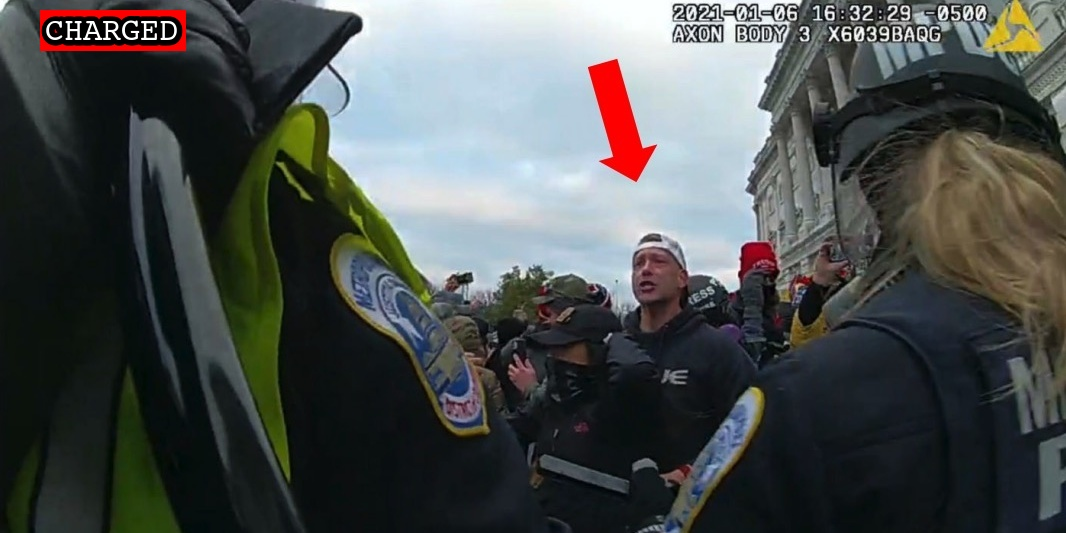
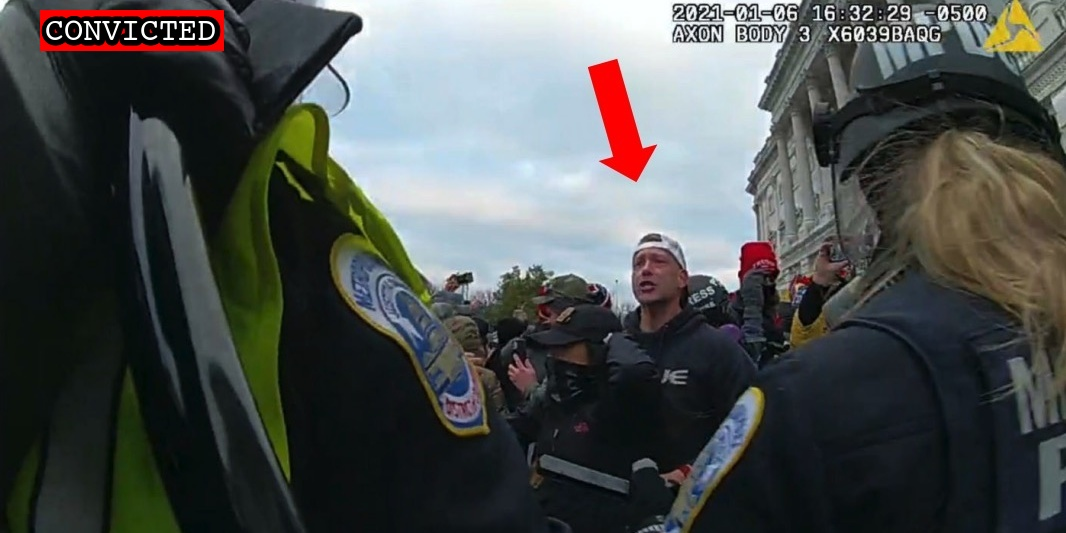
Latest

Changed region(s): [[0.0619, 0.0, 0.2167, 0.1201]]

diff --git a/docs/_suspects/enrique-tarrio.md b/docs/_suspects/enrique-tarrio.md
@@ -17,7 +17,7 @@ plea_hearing:
 trial_date: 2022-12-19
 trial_type: Jury Trial
 jury_selection: 2022-12-19
-sentencing:
+sentencing: 2023-09-01
 status_conference:
 age:
 occupation:
@@ -41,33 +41,32 @@ caseName: USA v. TARRIO
 judge: Timothy J. Kelly
 videos:
 charges:
-  - code: 18 USC § 2384
-    title: Seditious Conspiracy
-    url: https://www.law.cornell.edu/uscode/text/18/2384
-    felony: true
-  - code: 18 USC § 1512(k)
-    title: Conspiracy to Obstruct an Official Proceeding
-    url: https://www.law.cornell.edu/uscode/text/18/1512
-    felony: true
-  - code: 18 USC § 1512(c)(2),2
-    title: Obstruction of an Official Proceeding (Aiding and Abetting)
-    url: https://www.law.cornell.edu/uscode/text/18/1512
-    felony: true
-  - code: 18 USC § 372
-    title: Conspiracy to Prevent an Officer from Discharging any Duties
-    url: https://www.law.cornell.edu/uscode/text/18/372
-    felony: true
-  - code: 18 USC § 231(a)(3)
-    title: Obstruction of Law Enforcement During Civil Disorder
-    url: https://www.law.cornell.edu/uscode/text/18/231
-    felony: true
-  - code: 18 USC § 1361, 2
-    title: Destruction of Government Property (Aiding and Abetting)
-    url: https://www.law.cornell.edu/uscode/text/18/1361
-    felony: true
+- code: 18 USC § 2384
+  title: Seditious Conspiracy
+  url: https://www.law.cornell.edu/uscode/text/18/2384
+  felony: true
+- code: 18 USC § 1512(k)
+  title: Conspiracy to Obstruct an Official Proceeding
+  url: https://www.law.cornell.edu/uscode/text/18/1512
+  felony: true
+- code: 18 USC § 1512(c)(2),2
+  title: Obstruction of an Official Proceeding (Aiding and Abetting)
+  url: https://www.law.cornell.edu/uscode/text/18/1512
+  felony: true
+- code: 18 USC § 372
+  title: Conspiracy to Prevent an Officer from Discharging any Duties
+  url: https://www.law.cornell.edu/uscode/text/18/372
+  felony: true
+- code: 18 USC § 231(a)(3)
+  title: Obstruction of Law Enforcement During Civil Disorder
+  url: https://www.law.cornell.edu/uscode/text/18/231
+  felony: true
+- code: 18 USC § 1361, 2
+  title: Destruction of Government Property (Aiding and Abetting)
+  url: https://www.law.cornell.edu/uscode/text/18/1361
+  felony: true
 sentence:
 ---
-
 - [News Report](https://www.theguardian.com/us-news/2022/mar/08/enrique-tarrio-proud-boys-leader-arrested-us-capitol-attack-conspiracy)
 - [Indictment](https://storage.courtlistener.com/recap/gov.uscourts.dcd.241009/gov.uscourts.dcd.241009.380.0_5.pdf)
 - [Detention Memo](https://s3.documentcloud.org/documents/21417131/3-14-22-us-detention-memo-enrique-tarrio.pdf)

diff --git a/docs/_suspects/joshua-black.md b/docs/_suspects/joshua-black.md
@@ -4,13 +4,13 @@ lastName: Black
 hashtag: JoshuaBlack
 aka:
 residence: Alabama
-status: Convicted
+status: Sentenced
 date: 2021-01-14
 charged: 2021-01-14
 indicted: 2021-02-17
 convicted: 2023-01-13
 acquitted:
-sentenced:
+sentenced: 2023-05-16
 dismissed:
 deceased:
 plea_hearing:
@@ -41,28 +41,32 @@ caseName: USA v. BLACK
 judge: Amy B. Jackson
 videos:
 charges:
-- code: 18 USC § 1752(a)(1) and b(1)(A)
-  title: Entering a restricted building or grounds (w/a deadly weapon)
-  url: https://www.law.cornell.edu/uscode/text/18/1752
-  felony: true
-- code: 18 USC § 1752(a)(2) and b(1)(A)
-  title: Disorderly and Disruptive Conduct in a Restricted Building or Grounds (w/a deadly weapon)
-  url: https://www.law.cornell.edu/uscode/text/18/1752
-  felony: true
-- code: 40 USC § 5104(e)(1)(A)
-  title: Unlawful Posession of a Dangerous Weapon on Capitol Grounds or Buildings
-  url: https://www.law.cornell.edu/uscode/text/40/5104
-  felony: false
-- code: 40 USC § 5104(e)(2)(A)
-  title: Entering and Remaining on the Floor of Congress
-  url: https://www.law.cornell.edu/uscode/text/40/5104
-  felony: false
-- code: 40 USC § 5104(e)(2)(D)
-  title: Disorderly Conduct in a Capitol Building
-  url: https://www.law.cornell.edu/uscode/text/40/5104
-  felony: false
+  - code: 18 USC § 1752(a)(1) and b(1)(A)
+    title: Entering a restricted building or grounds (w/a deadly weapon)
+    url: https://www.law.cornell.edu/uscode/text/18/1752
+    felony: true
+  - code: 18 USC § 1752(a)(2) and b(1)(A)
+    title: Disorderly and Disruptive Conduct in a Restricted Building or Grounds (w/a deadly weapon)
+    url: https://www.law.cornell.edu/uscode/text/18/1752
+    felony: true
+  - code: 40 USC § 5104(e)(1)(A)
+    title: Unlawful Posession of a Dangerous Weapon on Capitol Grounds or Buildings
+    url: https://www.law.cornell.edu/uscode/text/40/5104
+    felony: false
+  - code: 40 USC § 5104(e)(2)(A)
+    title: Entering and Remaining on the Floor of Congress
+    url: https://www.law.cornell.edu/uscode/text/40/5104
+    felony: false
+  - code: 40 USC § 5104(e)(2)(D)
+    title: Disorderly Conduct in a Capitol Building
+    url: https://www.law.cornell.edu/uscode/text/40/5104
+    felony: false
 sentence:
+  - 22 months incarceration
+  - 2 years probation
+  - $2000 restitution
 ---
+
 - [News Report](https://www.wbrc.com/2021/01/14/leeds-man-charged-capitol-riot-identified-by-blood-his-cheek/)
 - [Statement of Facts](https://www.justice.gov/opa/page/file/1354806/download)
 - [Complaint](https://www.justice.gov/opa/page/file/1354811/download)

diff --git a/docs/_suspects/anthony-griffith.md b/docs/_suspects/anthony-griffith.md
@@ -4,11 +4,11 @@ lastName: Griffith
 hashtag: AnthonyGriffith
 aka: Tony Griffith
 residence: Oklahoma
-status: Indicted
+status: Convicted
 date: 2021-02-22
 charged: 2021-02-22
 indicted: 2021-03-24
-convicted:
+convicted: 2023-05-16
 acquitted:
 sentenced:
 dismissed:
@@ -32,7 +32,7 @@ raid:
 perpwalk:
 quote:
 title: Anthony Griffith charged on Feburary 22, 2021
-description: Click for latest case details. Suspects innocent until proven guilty.
+description: Convicted on May 16, 2023. Click for latest case details.
 author: seditiontrack
 layout: suspect
 published: true
@@ -41,8 +41,25 @@ caseName: USA v. GRIFFITH
 judge: Colleen Kollar-Kotelly
 videos:
 charges:
+  - code: 18 USC § 1752(a)(1)
+    title: Entering a restricted building or grounds
+    url: https://www.law.cornell.edu/uscode/text/18/1752
+    felony: false
+  - code: 18 USC § 1752(a)(2)
+    title: Disorderly and disruptive conduct in a restricted building or grounds
+    url: https://www.law.cornell.edu/uscode/text/18/1752
+    felony: false
+  - code: 40 USC § 5104(e)(2)(D)
+    title: Disorderly Conduct in a Capitol Building
+    url: https://www.law.cornell.edu/uscode/text/40/5104
+    felony: false
+  - code: 40 USC § 5104(e)(2)(G)
+    title: Parading, demonstrating or picketing in a Capitol building
+    url: https://www.law.cornell.edu/uscode/text/40/5104
+    felony: false
 sentence:
 ---
+
 - [News Report](https://tulsaworld.com/news/state-and-regional/crime-and-courts/two-fort-gibson-men-arrested-in-connection-with-u-s-capitol-riot/article_fbceb6d8-7d3b-11eb-8b67-eb689946da92.html)
 - [Statement of Facts](https://www.justice.gov/usao-dc/case-multi-defendant/file/1378856/download)
 - [Indictment](https://www.justice.gov/usao-dc/case-multi-defendant/file/1381761/download)

diff --git a/docs/_suspects/jeffrey-etter.md b/docs/_suspects/jeffrey-etter.md
@@ -4,16 +4,16 @@ lastName: Etter
 hashtag:
 aka:
 residence: Virginia
-status: Charged
+status: Convicted
 date: 2023-02-22
 charged: 2023-02-22
 indicted:
-convicted:
+convicted: 2023-05-15
 acquitted:
 sentenced:
 dismissed:
 deceased:
-plea_hearing:
+plea_hearing: 2023-05-15
 trial_date:
 trial_type:
 jury_selection:
@@ -32,7 +32,7 @@ raid:
 perpwalk:
 quote:
 title: Jeffrey Etter charged on February 2, 2023
-description: Click for latest case details. Suspects innocent until proven guilty.
+description: Convicted on May 15, 2023. Click for latest case details.
 author: seditiontrack
 layout: suspect
 published: true
@@ -41,8 +41,14 @@ caseName: USA v. ETTER
 judge:
 videos:
 charges:
+  - code: 40 USC § 5104(e)(2)(G)
+    title: Parading, demonstrating or picketing in a Capitol building
+    url: https://www.law.cornell.edu/uscode/text/40/5104
+    felony: false
 sentence:
 ---
 
 - [News Report](https://www.13newsnow.com/article/news/crime/portsmouth-man-charged-alleged-involvement-2021-capitol-riot/291-b6566e33-b745-4f69-8a30-6f9a424a86a8)
 - [Statement of Facts](https://storage.courtlistener.com/recap/gov.uscourts.dcd.252414/gov.uscourts.dcd.252414.1.1.pdf)
+- [Plea Agreement](https://storage.courtlistener.com/recap/gov.uscourts.dcd.253495/gov.uscourts.dcd.253495.21.0.pdf)
+- [Statement of Offense](https://storage.courtlistener.com/recap/gov.uscourts.dcd.253495/gov.uscourts.dcd.253495.22.0.pdf)

diff --git a/docs/_suspects/christopher-kuehne.md b/docs/_suspects/christopher-kuehne.md
@@ -18,7 +18,7 @@ trial_date:
 trial_type:
 jury_selection:
 sentencing:
-status_conference: 2023-05-16
+status_conference: 2023-08-04
 age:
 occupation: Marine Scout Sniper (Former)
 affiliations: Proud Boys, military

diff --git a/docs/_suspects/dominic-pezzola.md b/docs/_suspects/dominic-pezzola.md
@@ -17,7 +17,7 @@ plea_hearing:
 trial_date: 2022-12-19
 trial_type: Jury Trial
 jury_selection: 2022-12-19
-sentencing:
+sentencing: 2023-09-01
 status_conference:
 age: 43
 occupation: Former Military (Marines)

diff --git a/docs/_suspects/ethan-nordean.md b/docs/_suspects/ethan-nordean.md
@@ -17,7 +17,7 @@ plea_hearing:
 trial_date: 2022-12-19
 trial_type: Jury Trial
 jury_selection: 2022-12-19
-sentencing:
+sentencing: 2023-09-01
 status_conference:
 age: 30
 occupation:

diff --git a/docs/_suspects/joseph-biggs.md b/docs/_suspects/joseph-biggs.md
@@ -17,7 +17,7 @@ plea_hearing:
 trial_date: 2022-12-19
 trial_type: Jury Trial
 jury_selection: 2022-12-19
-sentencing:
+sentencing: 2023-09-01
 status_conference:
 age: 37
 occupation:

diff --git a/docs/_suspects/zachary-rehl.md b/docs/_suspects/zachary-rehl.md
@@ -17,7 +17,7 @@ plea_hearing:
 trial_date: 2022-12-19
 trial_type: Jury Trial
 jury_selection: 2022-12-19
-sentencing:
+sentencing: 2023-09-01
 status_conference:
 age: 35
 occupation:

diff --git a/docs/_suspects/matthew-lebrun.md b/docs/_suspects/matthew-lebrun.md
@@ -18,7 +18,7 @@ trial_date:
 trial_type:
 jury_selection:
 sentencing:
-status_conference:
+status_conference: 2023-05-17
 age: 33
 occupation:
 affiliations: Proud Boys, Oath Keepers

diff --git a/docs/_suspects/daniel-christmann.md b/docs/_suspects/daniel-christmann.md
@@ -17,7 +17,7 @@ plea_hearing: 2022-11-28
 trial_date:
 trial_type:
 jury_selection:
-sentencing: 2023-04-26
+sentencing: 2023-10-05
 status_conference:
 age: 38
 occupation: Plumber

diff --git a/docs/_suspects/felicia-konold.md b/docs/_suspects/felicia-konold.md
@@ -18,7 +18,7 @@ trial_date:
 trial_type:
 jury_selection:
 sentencing:
-status_conference: 2023-05-16
+status_conference: 2023-08-04
 age: 26
 occupation:
 affiliations: Proud Boys
